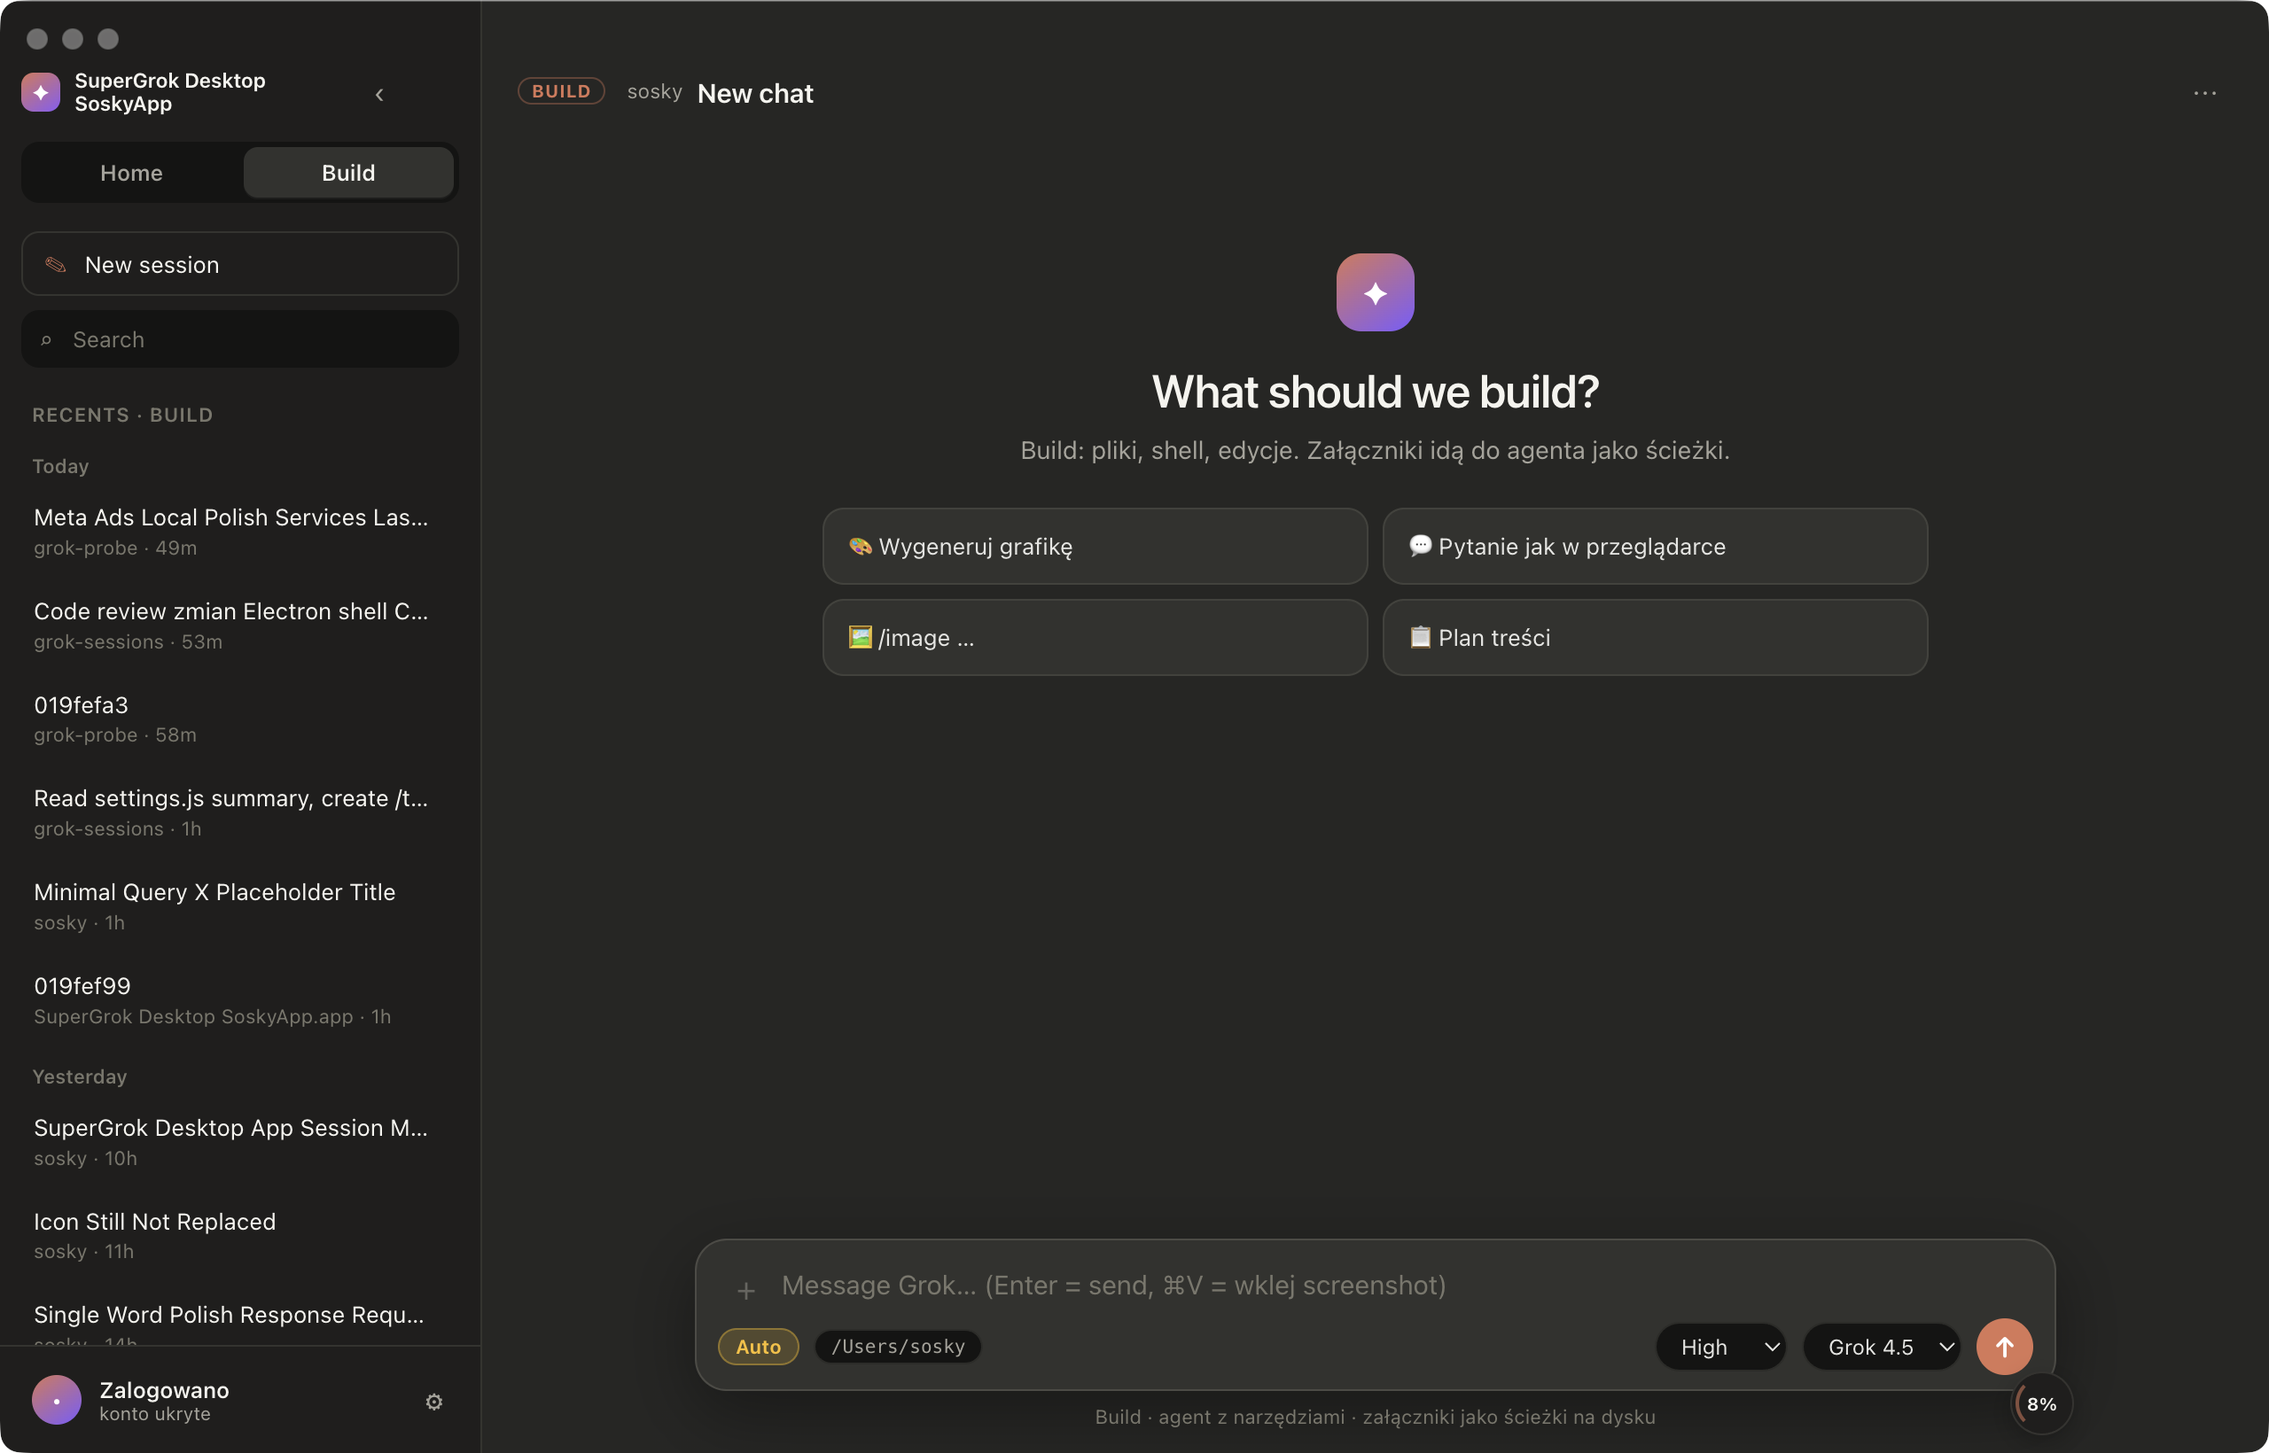
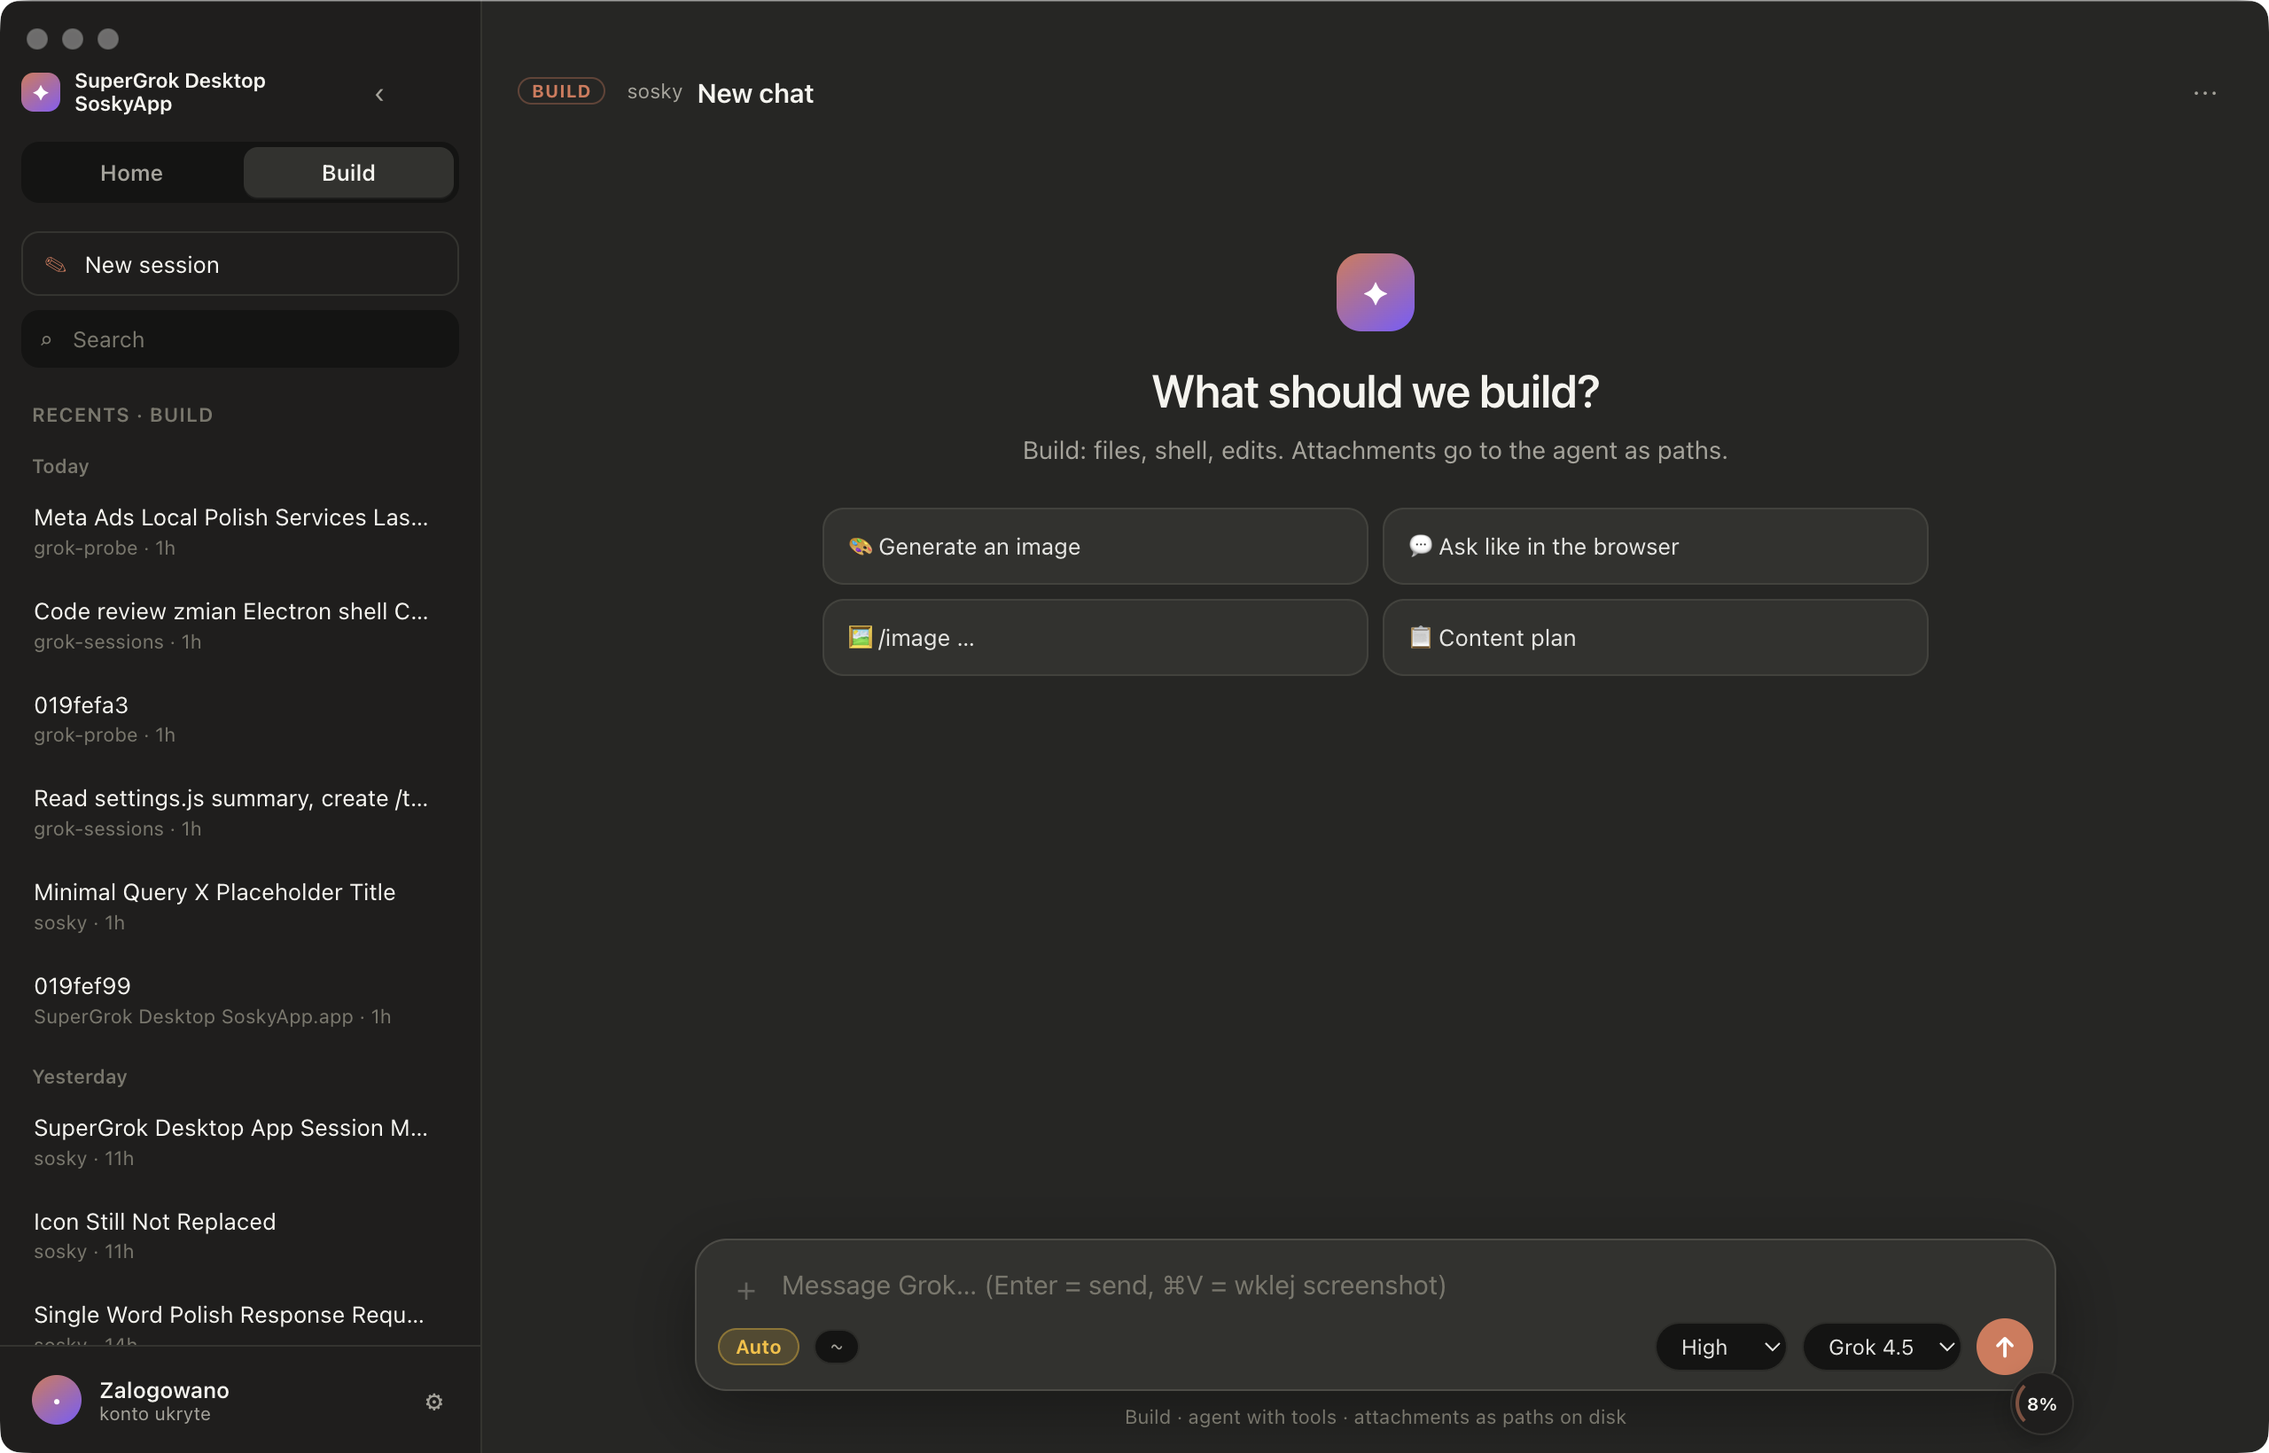
Reszta tłumaczeń i przycisk logowania zależny od stanu
Zrzut ekranu ujawnił, że interfejs był w połowie polski: filtr szukał
tekstów po znakach ą/ć/ę/ł, więc przepuścił „Zalogowano”, „konto ukryte”,
„⌘V = wklej screenshot”, „Sesja SuperGrok / xAI” i kilkanaście innych,
które ogonków nie mają. Test dostał drugą siatkę: listę typowo polskich
słów bez ogonków. Bez tego regresja wracałaby niezauważona.

Przycisk w oknie Konto i w Ustawieniach mówił „Log in” także wtedy, gdy
sesja była aktywna, co sugerowało brak zalogowania. Teraz zależy od stanu:
„Log in” albo „Switch account”.

diff --git a/src/app.js b/src/app.js
@@ -246,15 +246,15 @@
       if (/\b(python3?|node|bash|zsh|sh|curl|ffmpeg|osascript)\b/.test(low))
         return "Terminal";
       if (/^read\b|\bread_file\b|\bcat\b|\bhead\b|\btail\b/.test(low))
-        return "Czytam plik";
+        return tr("Reading file");
       if (/\b(write|edit|patch|search_replace|sed)\b/.test(low)) return tr("Editing file");
       if (/\b(grep|rg|find|search_tool|web_search)\b/.test(low)) return "Szukam";
       if (/\b(web_search|browse|http|open_page)\b/.test(low)) return tr("Network");
       if (/^Execute\b/i.test(s)) return "Terminal";
-      if (/\/|\\/.test(s)) return "Plik";
+      if (/\/|\\/.test(s)) return tr("File");
       return tr("Tool");
     }
-    if (/^\/Users\//.test(s) || /^[A-Za-z]:\\/.test(s)) return "Plik";
+    if (/^\/Users\//.test(s) || /^[A-Za-z]:\\/.test(s)) return tr("File");
     const one = s.replace(/\s+/g, " ").slice(0, 40);
     return one.length < s.replace(/\s+/g, " ").length ? one + "…" : one;
   }
@@ -392,7 +392,7 @@
     const done = liveTools.filter((t) => t.status === "completed" || t.status === "failed");
     el.btnToggleActivity.classList.toggle("hidden", liveTools.length === 0);
     el.btnToggleActivity.textContent = showActivity
-      ? "Ukryj kroki"
+      ? tr("Hide steps")
       : `Kroki (${liveTools.length})`;
 
     if (!showActivity || !liveTools.length) {
@@ -566,7 +566,7 @@
       li.className = "session-item";
       li.style.cursor = "default";
       li.innerHTML = `<div><div class="title" style="color:var(--faint)">${
-        mode === "home" ? tr("No Home chats yet — write below") : "Brak sesji Build"
+        mode === "home" ? tr("No Home chats yet — write below") : tr("No Build sessions")
       }</div></div>`;
       el.list.appendChild(li);
       return;
@@ -604,7 +604,7 @@
             ${fl.unread ? '<span class="unread-dot" title="Unread"></span>' : ""}
             ${
               isWorking
-                ? '<span class="live-dot working" title="Pracuje w tej sesji"></span>'
+                ? '<span class="live-dot working" title=tr("Working in this session")></span>'
                 : isTerminalLive
                   ? '<span class="live-dot" title="Aktywna w terminalu"></span>'
                   : ""
@@ -614,7 +614,7 @@
         li.querySelector(".meta").textContent = [
           mode === "home" ? "Home" : basenameCwd(r.cwd),
           isWorking
-            ? "pracuje…"
+            ? tr("working…")
             : relativeTime(r.lastActiveAt || r.updatedAt),
         ]
           .filter(Boolean)
@@ -883,7 +883,7 @@
       pill.className =
         "agent-work-summary" + (m._streaming && busy ? " live" : "");
       pill.textContent =
-        m._streaming && busy ? "Thinking…" : "Thinking (ukryte w czacie)";
+        m._streaming && busy ? "Thinking…" : tr("Thinking (hidden in chat)");
       body.appendChild(pill);
     }
 
@@ -977,7 +977,7 @@
       q.className = "queued-actions";
       const badge = document.createElement("span");
       badge.className = "queued-badge";
-      badge.textContent = "w kolejce";
+      badge.textContent = tr("queued");
       const inject = document.createElement("button");
       inject.type = "button";
       inject.className = "queued-inject";
@@ -1219,14 +1219,32 @@
   let homeDirPath = "";
   let lastSystemLocale = "en";
 
+  /**
+   * Przycisk logowania mówił „Log in” także wtedy, gdy użytkownik był
+   * zalogowany. `grok login` służy wtedy do przelogowania, więc etykieta
+   * ma to odzwierciedlać zamiast sugerować, że sesji nie ma.
+   */
+  function paintLoginButtons(loggedIn) {
+    const label = loggedIn ? tr("Switch account") : tr("Log in");
+    for (const id of ["account-login", "set-login"]) {
+      const b = document.getElementById(id);
+      if (!b) continue;
+      b.textContent = label;
+      b.title = loggedIn
+        ? tr("Sign in again, e.g. with a different account")
+        : tr("Sign in with: grok login");
+    }
+  }
+
   function applyAccount(account) {
     if (account) lastAccount = account;
     const acc = lastAccount;
     if (!acc) return;
 
     if (privacyMode) {
-      el.accountName.textContent = acc.loggedIn ? "Zalogowano" : "Nie zalogowano";
-      el.accountSub.textContent = acc.loggedIn ? "konto ukryte" : "—";
+      paintLoginButtons(acc.loggedIn);
+      el.accountName.textContent = acc.loggedIn ? tr("Signed in") : tr("Not signed in");
+      el.accountSub.textContent = acc.loggedIn ? tr("account hidden") : "—";
       el.accountAvatar.textContent = "•";
       el.accountDetail.textContent = acc.loggedIn
         ? tr("Account details hidden (privacy mode)")
@@ -1234,16 +1252,17 @@
       return;
     }
 
+    paintLoginButtons(acc.loggedIn);
     el.accountName.textContent = acc.name || acc.label || "—";
     el.accountSub.textContent = acc.loggedIn
-      ? acc.email || "zalogowano"
-      : "Nie zalogowano";
+      ? acc.email || tr("signed in")
+      : tr("Not signed in");
     el.accountAvatar.textContent = (acc.name || acc.email || "?")
       .trim()
       .charAt(0)
       .toUpperCase();
     el.accountDetail.textContent = acc.loggedIn
-      ? `${acc.name || ""}\n${acc.email || ""}\nSesja SuperGrok / xAI`
+      ? `${acc.name || ""}\n${acc.email || ""}\n${tr("SuperGrok / xAI session")}`
       : tr("Not signed in. Use „Log in”.");
   }
 
@@ -1538,7 +1557,7 @@
       el.busyChip.classList.add("hidden");
       el.btnStop.classList.remove("hidden");
       el.btnSend.classList.add("queue-mode");
-      el.input.placeholder = "Agent pracuje w innej sesji Build…";
+      el.input.placeholder = tr("Agent is working in another Build session…");
       el.statusBar.classList.add("hidden");
     } else {
       setBusy(false, mode);
@@ -2069,7 +2088,7 @@
     el.btnSend.title = busy
       ? viewingBusySession
         ? tr("Add to queue (sends after the reply)")
-        : "Agent w innej sesji Build — Enter doda do kolejki"
+        : tr("Agent busy in another Build session — Enter queues the message")
       : "Send";
     el.btnSend.classList.toggle("queue-mode", busy);
     el.btnStop.classList.toggle("hidden", !busy);
@@ -2082,7 +2101,7 @@
     el.input.readOnly = false;
     if (busy && viewingBusySession) {
       el.input.placeholder =
-        "Pisz dalej — Enter doda do kolejki…";
+        tr("Keep typing — Enter adds to the queue…");
       // trzymaj „Myślę…” widoczne przez całą pracę, nawet bez nowego setStatus
       if (el.statusBar.classList.contains("hidden")) {
         const d = bag().statusDetail;
@@ -2093,10 +2112,10 @@
       }
     } else if (busy && !viewingBusySession) {
       el.input.placeholder =
-        "Agent pracuje w innej sesji Build…";
+        tr("Agent is working in another Build session…");
     } else {
       el.input.placeholder =
-        "Message Grok… (Enter = send, ⌘V = wklej screenshot)";
+        tr("Message Grok… (Enter = send, ⌘V = paste screenshot)");
     }
     updateQueueChip();
     if (!b) {
@@ -2659,7 +2678,7 @@
       q.className = "queued-actions";
       const badge = document.createElement("span");
       badge.className = "queued-badge";
-      badge.textContent = "w kolejce";
+      badge.textContent = tr("queued");
       const inject = document.createElement("button");
       inject.type = "button";
       inject.className = "queued-inject";
@@ -2765,7 +2784,7 @@
     }
     pushBag();
     persistNav();
-    showToast(mode === "home" ? "Nowy czat Home" : tr("New Build session — write below"), "ok");
+    showToast(mode === "home" ? tr("New Home chat") : tr("New Build session — write below"), "ok");
   }
 
   function autosize() {
@@ -2797,12 +2816,12 @@
       return;
     }
     if (!id) {
-      showToast("Wybierz czat z listy (albo New chat)", "");
+      showToast(tr("Pick a chat from the list (or New chat)"), "");
       return;
     }
     const row = rowsForMode().find((r) => r.id === id);
     if (!row && act !== "copy") {
-      showToast("Sesja nie znaleziona", "error");
+      showToast(tr("Session not found"), "error");
       return;
     }
 
@@ -2813,12 +2832,12 @@
     }
     if (act === "unread") {
       await markSessionFlag(id, { unread: true });
-      showToast("Oznaczone jako nieprzeczytane", "ok");
+      showToast(tr("Marked unread"), "ok");
       return;
     }
     if (act === "read") {
       await markSessionFlag(id, { unread: false });
-      showToast("Oznaczone jako przeczytane", "ok");
+      showToast(tr("Marked read"), "ok");
       return;
     }
     if (act === "pin") {
@@ -2904,7 +2923,7 @@
       el.input.placeholder = tr("Describe the video… (8 s, takes about a minute)");
     } else {
       el.input.placeholder =
-        "Message Grok… (Enter = send, ⌘V = wklej screenshot)";
+        tr("Message Grok… (Enter = send, ⌘V = paste screenshot)");
     }
   });
 
@@ -3182,7 +3201,7 @@
       el.busyChip.classList.add("hidden");
       el.btnStop.classList.remove("hidden");
       el.btnSend.classList.add("queue-mode");
-      el.input.placeholder = "Agent pracuje w innej sesji Build…";
+      el.input.placeholder = tr("Agent is working in another Build session…");
       el.statusBar.classList.add("hidden");
       el.statusText.textContent = "";
       liveTools = [];
@@ -3387,7 +3406,7 @@
           usageEls.btn.classList.remove("warn", "hot");
         }
         usageEls.ctxMeta.textContent =
-          mode === "home" ? "Home (brak signals)" : "—";
+          mode === "home" ? tr("Home (no signals)") : "—";
         setBar(usageEls.ctxBar, 0);
       }
       const used = u.context?.tokensUsed;
@@ -3397,7 +3416,7 @@
           used != null && total != null
             ? `${fmtTokens(used)} / ${fmtTokens(total)} · tury ${u.context?.turns ?? "—"} · tool ${u.context?.tools ?? "—"}`
             : mode === "home"
-              ? "Home nie zapisuje context window jak Build"
+              ? tr("Home does not track a context window like Build")
               : tr("No signals.json — open a Build session");
       }
       const planBit = plan?.tierLabel ? ` · ${plan.tierLabel}` : "";

diff --git a/scripts/test-units.js b/scripts/test-units.js
@@ -202,17 +202,33 @@ group("i18n: angielski bazowy, polski kompletny");
     );
   });
 
+  // Pierwsza wersja tego testu szukała tylko znaków ą/ć/ę/ł/…, więc
+  // przepuściła „Zalogowano”, „konto ukryte” i „⌘V = wklej screenshot”.
+  // Stąd druga siatka: typowo polskie słowa bez ogonków.
+  const POLSKIE_SLOWA =
+    /\b(zalogowano|konto|ukryte|ukryty|wklej|napisz|pisz|dalej|wyslij|jeszcze|sesji|sesja|czat|czaty|kolejce|kolejki|wiadomosc|wiadomosci|brak|pracuje|wybierz|nowy|nowa|usun|zmien|pokaz|ukryj|zrzut|ekranu|plik|pliki|teraz|przez|jako|albo|nieprzeczytane|przeczytane|znaleziona|zapisuje)\b/i;
+
   test("w kodzie UI nie ma polskich literałów", () => {
     const zle = [];
     for (const [plik, src] of [
       ["src/app.js", app],
       ["src/index.html", html],
     ]) {
-      // stringi i widoczne teksty z polskimi znakami = niezlokalizowane
-      const hits = src.match(/"[^"\n]*[ąćęłńóśźżĄĆĘŁŃÓŚŹŻ][^"\n]*"/g) || [];
-      for (const h of hits) if (!h.startsWith('"t(')) zle.push(`${plik}: ${h}`);
+      const hits = src.match(/"[^"\n]{3,}"/g) || [];
+      for (const h of hits) {
+        const tekst = h.slice(1, -1);
+        // pomiń wywołania tłumaczeń i klucze data-i18n (te są po angielsku)
+        if (h.startsWith('"tr(')) continue;
+        const podejrzany =
+          /[ąćęłńóśźżĄĆĘŁŃÓŚŹŻ]/.test(tekst) || POLSKIE_SLOWA.test(tekst);
+        if (podejrzany) zle.push(`${plik}: ${h.slice(0, 70)}`);
+      }
     }
-    assert.strictEqual(zle.length, 0, zle.slice(0, 8).join("\n       "));
+    assert.strictEqual(
+      zle.length,
+      0,
+      "niezlokalizowane teksty:\n       " + zle.slice(0, 10).join("\n       ")
+    );
   });
 }
 

diff --git a/src/i18n.js b/src/i18n.js
@@ -153,6 +153,8 @@ const PL = {
   "New Home chat": "Nowy czat Home",
   "New Build session — write below": "Nowa sesja Build — pisz poniżej",
   "working…": "pracuje…",
+  "Working in this session": "Pracuje w tej sesji",
+  "Home (no signals)": "Home (brak signals)",
 
   // Uprawnienia
   Auto: "Auto",
@@ -173,6 +175,10 @@ const PL = {
   Cancel: "Anuluj",
   Saved: "Zapisane",
   "Log in": "Zaloguj",
+  "Switch account": "Zmień konto",
+  "Sign in with: grok login": "Zaloguj przez: grok login",
+  "Sign in again, e.g. with a different account":
+    "Zaloguj ponownie, np. na inne konto",
   Account: "Konto",
   Close: "Zamknij",
   Theme: "Motyw",
@@ -204,6 +210,7 @@ const PL = {
   "Signed in": "Zalogowano",
   "Not signed in": "Nie zalogowano",
   "account hidden": "konto ukryte",
+  "signed in": "zalogowano",
   "Account details hidden (privacy mode)":
     "Dane konta ukryte (tryb prywatności)",
   "Not signed in. Use „Log in”.": "Nie zalogowano. Użyj „Zaloguj”.",

diff --git a/src/index.html b/src/index.html
@@ -222,7 +222,7 @@
         <h2 data-i18n="Account">Account</h2>
         <p id="account-detail" class="account-detail">—</p>
         <div class="modal-actions">
-          <button type="button" id="account-login" class="btn" data-i18n="Log in">Log in</button>
+          <button type="button" id="account-login" class="btn">Log in</button>
           <button type="button" id="account-close" class="btn primary" data-i18n="Close">Close</button>
         </div>
       </div>
@@ -306,7 +306,7 @@
         </label>
 
         <div class="modal-actions">
-          <button type="button" id="set-login" class="btn" data-i18n="Log in">Log in</button>
+          <button type="button" id="set-login" class="btn">Log in</button>
           <button type="button" id="set-cancel" class="btn" data-i18n="Cancel">Cancel</button>
           <button type="button" id="set-save" class="btn primary" data-i18n="Save">Save</button>
         </div>
